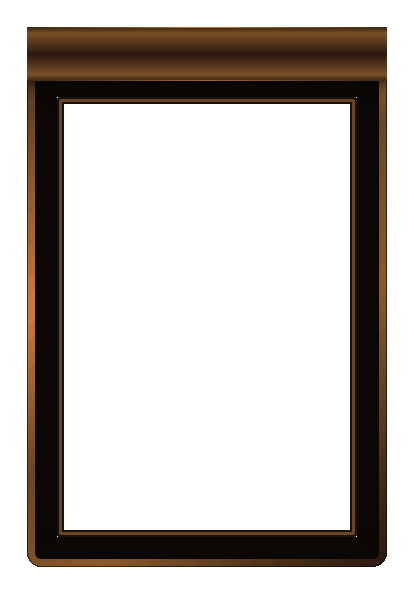
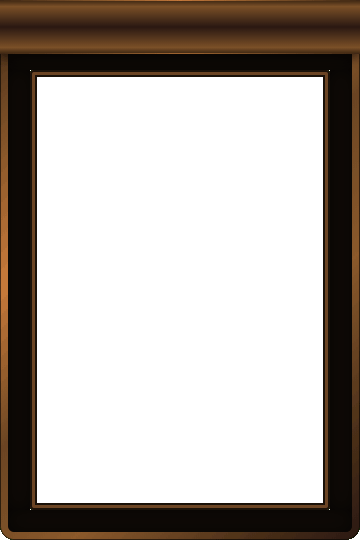
art(cards): v3 PNG batch — switch to 360x540 trimmed frames + protruding diamonds; CardView 192x288 (TileSlot 208x304), aspect matches asset 2:3; delete with-diamond frame_*.png; add shield_yellow/shield_barrier_blue for future use

diff --git a/src/View/CardView.cs b/src/View/CardView.cs
@@ -5,20 +5,21 @@ using ShadowCardSmash.Engine;
 namespace ShadowCardSmash.View;
 
 /// <summary>
-/// Card face built from a rarity-specific frame PNG (art/ui/cards/frame_*.png, 414×594 source)
-/// rendered as a TextureRect, with the card art and dynamic text/numbers overlaid at fixed coordinates.
+/// Card face built from a rarity-specific no-diamond frame PNG (art/ui/cards/frame_*_nd.png, 360×540 source)
+/// rendered as a TextureRect, with the card art and dynamic text/numbers overlaid at fixed coordinates,
+/// plus three independent diamond TextureRects (cost/atk/hp) that protrude beyond the frame body.
 ///
-/// Native scale factor: 200/414 ≈ 0.483; text size + coordinates derive from the original 414×594 design.
 /// See 设定文档/卡牌框架坐标_v1.txt for the source-of-truth layout spec.
 /// </summary>
 public partial class CardView : PanelContainer
 {
-    public const int CardWidth = 196;
-    public const int CardHeight = 284;
+    // 2:3 ratio matches the new frame_*_nd asset (360×540 source).
+    public const int CardWidth = 192;
+    public const int CardHeight = 288;
 
-    // Source design constants (414×594) — labels scale per FrameScale but minimum font sizes enforced.
-    private const float SrcW = 414f;
-    private const float SrcH = 594f;
+    // Source design constants (360×540). FrameScale derives uniformly from width — control aspect matches asset.
+    private const float SrcW = 360f;
+    private const float SrcH = 540f;
     private static readonly float FrameScale = CardWidth / SrcW;
 
     [Signal] public delegate void ClickedEventHandler(int instanceId);
@@ -65,14 +66,14 @@ public partial class CardView : PanelContainer
         _innerRoot = new Control { MouseFilter = MouseFilterEnum.Ignore };
         AddChild(_innerRoot);
 
-        // Layer 0: card art texture (in art_rect 57,97 → 357,537 of source).
+        // Layer 0: card art texture (art_rect 30,70 → 330,510 — 300×440 safe zone).
         _artTex = new TextureRect
         {
             ExpandMode = TextureRect.ExpandModeEnum.IgnoreSize,
             StretchMode = TextureRect.StretchModeEnum.KeepAspectCovered,
             MouseFilter = MouseFilterEnum.Ignore,
         };
-        AnchorBox(_artTex, 57, 97, 357, 537);
+        AnchorBox(_artTex, 30, 70, 330, 510);
         _innerRoot.AddChild(_artTex);
 
         // Art placeholder text (shown when no ArtPath given).
@@ -84,8 +85,8 @@ public partial class CardView : PanelContainer
             Modulate = new Color(0.5f, 0.42f, 0.32f),
             MouseFilter = MouseFilterEnum.Ignore,
         };
-        _artPlaceholder.AddThemeFontSizeOverride("font_size", Mathf.RoundToInt(28 * FrameScale));
-        AnchorBox(_artPlaceholder, 57, 97, 357, 537);
+        _artPlaceholder.AddThemeFontSizeOverride("font_size", Mathf.RoundToInt(22 * FrameScale));
+        AnchorBox(_artPlaceholder, 30, 70, 330, 510);
         _innerRoot.AddChild(_artPlaceholder);
 
         // Layer 1: no-diamond frame texture (full card area). Diamonds rendered as separate layers below.
@@ -98,37 +99,38 @@ public partial class CardView : PanelContainer
         };
         _innerRoot.AddChild(_frameTex);
 
-        // Layer 2: diamonds (140×140 source, center at PNG (70,70)). They protrude past the card body.
+        // Layer 2: diamonds (140×140 source, center at PNG (70,70)). They protrude past the card body
+        // by ~40 src units on the cost (top-left), atk (bottom-left), and hp (bottom-right) corners.
         _diamondCost = MakeDiamondRect();
-        AnchorBox(_diamondCost, -13, -13, 127, 127);   // center at source (57, 57)
+        AnchorBox(_diamondCost, -40, -40, 100, 100);   // center at source (30, 30)
         _innerRoot.AddChild(_diamondCost);
 
         _diamondAtk = MakeDiamondRect();
-        AnchorBox(_diamondAtk, -13, 467, 127, 607);    // center at source (57, 537)
+        AnchorBox(_diamondAtk, -40, 440, 100, 580);    // center at source (30, 510)
         _innerRoot.AddChild(_diamondAtk);
 
         _diamondHp = MakeDiamondRect();
-        AnchorBox(_diamondHp, 287, 467, 427, 607);     // center at source (357, 537)
+        AnchorBox(_diamondHp, 260, 440, 400, 580);     // center at source (330, 510)
         _innerRoot.AddChild(_diamondHp);
 
-        // Layer 3: text overlays. Each label is sized into a box big enough for centered text (incl. 2-digit values)
-        // and positioned so its center equals the source diamond coordinate.
-        _cost = MakeBadgeLabel(36, new Color(1, 1, 1), minPx: 13);
-        AnchorCentered(_cost, 57, 57, halfBox: 38);
+        // Layer 3: text overlays — centered on the diamond / ribbon coordinates.
+        // Source font sizes calibrated for the 360×540 layout (annotation v3).
+        _cost = MakeBadgeLabel(28, new Color(1, 1, 1), minPx: 13);
+        AnchorCentered(_cost, 30, 30, halfBox: 30);
         _innerRoot.AddChild(_cost);
 
-        _name = MakeBadgeLabel(22, new Color(0.95f, 0.88f, 0.7f), minPx: 12, bold: true);
+        _name = MakeBadgeLabel(18, new Color(0.95f, 0.88f, 0.7f), minPx: 11, bold: true);
         _name.AddThemeColorOverride("font_outline_color", new Color(0, 0, 0, 0.85f));
         _name.AddThemeConstantOverride("outline_size", 4);
-        AnchorCentered(_name, 207, 54, halfBoxW: 165, halfBoxH: 22);
+        AnchorCentered(_name, 180, 27, halfBoxW: 150, halfBoxH: 18);
         _innerRoot.AddChild(_name);
 
-        _atk = MakeBadgeLabel(34, new Color(1, 1, 1), minPx: 13);
-        AnchorCentered(_atk, 57, 537, halfBox: 38);
+        _atk = MakeBadgeLabel(26, new Color(1, 1, 1), minPx: 13);
+        AnchorCentered(_atk, 30, 510, halfBox: 30);
         _innerRoot.AddChild(_atk);
 
-        _hp = MakeBadgeLabel(34, new Color(1, 1, 1), minPx: 13);
-        AnchorCentered(_hp, 357, 537, halfBox: 38);
+        _hp = MakeBadgeLabel(26, new Color(1, 1, 1), minPx: 13);
+        AnchorCentered(_hp, 330, 510, halfBox: 30);
         _innerRoot.AddChild(_hp);
 
         // Shield overlay — added last so it draws on top of everything else.
